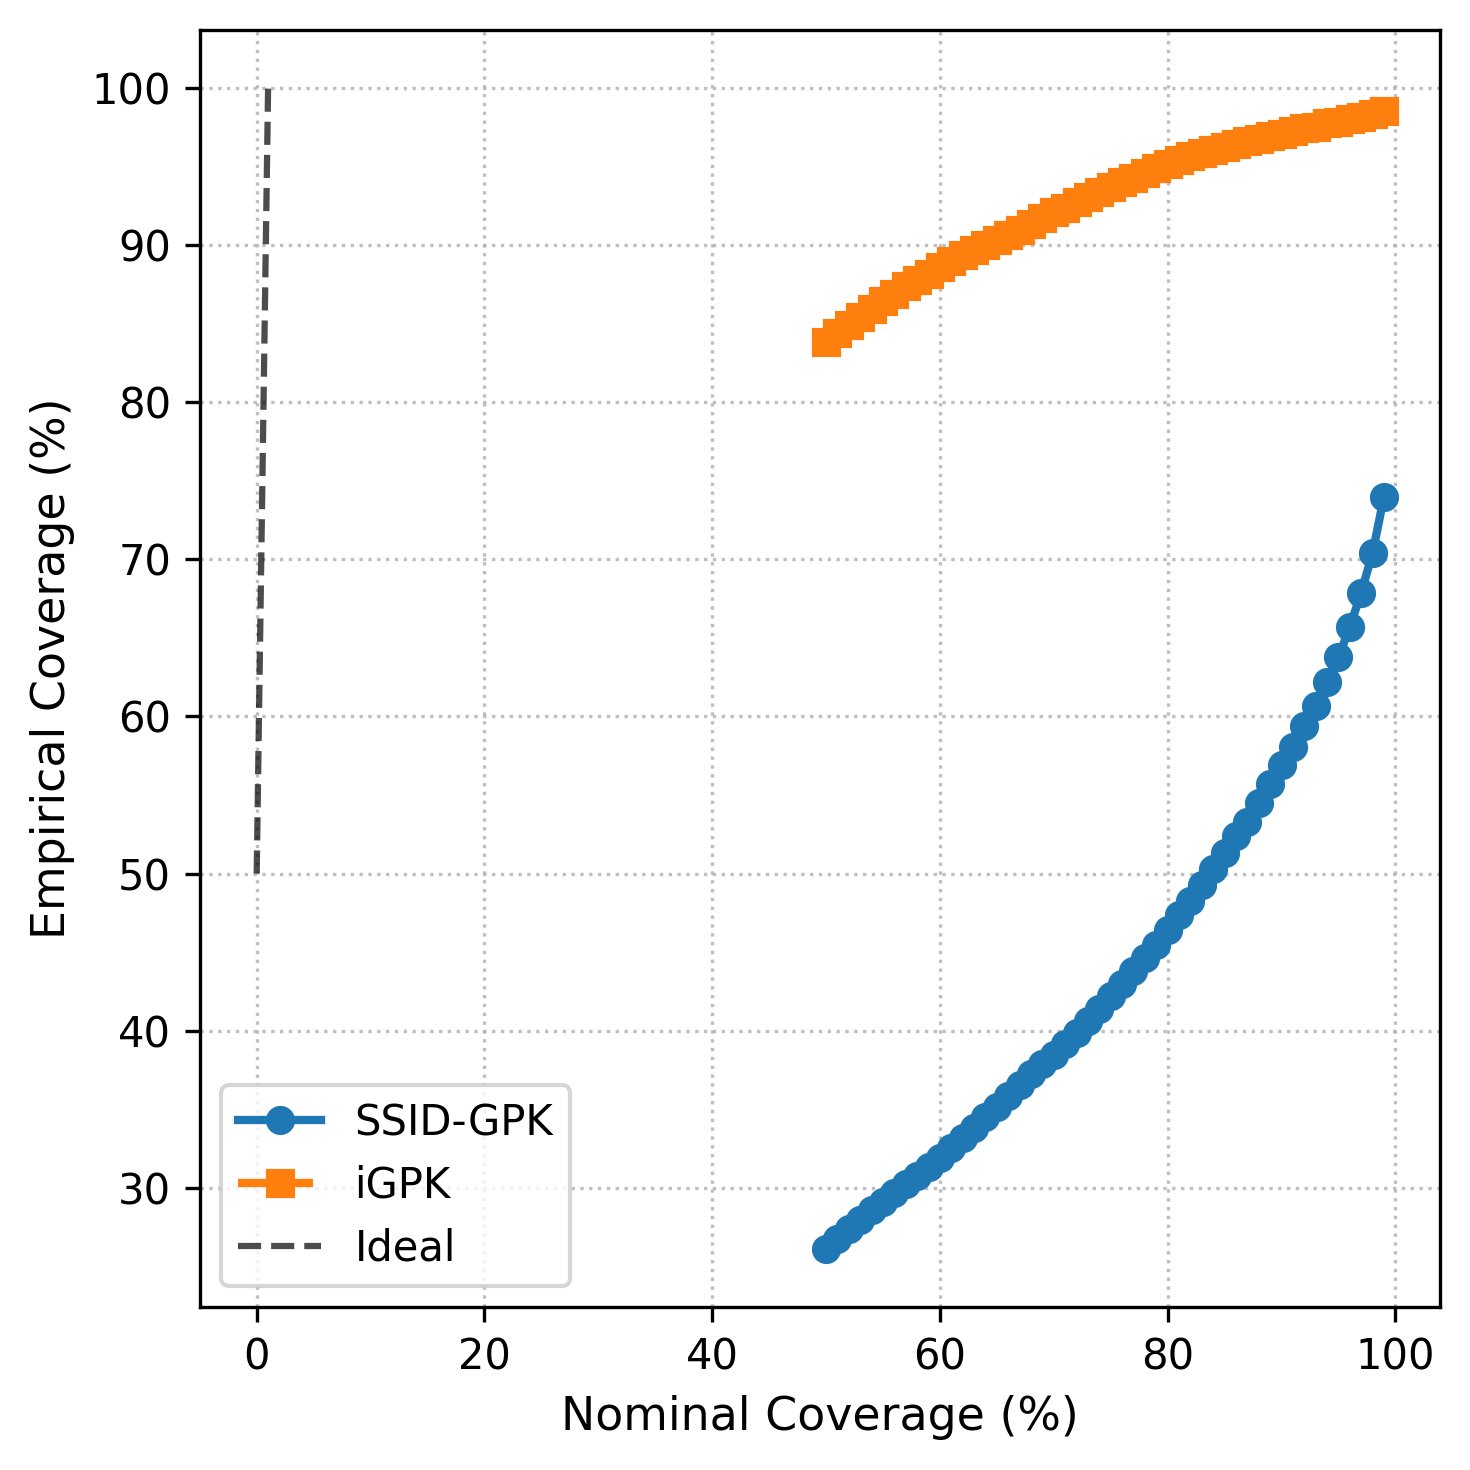
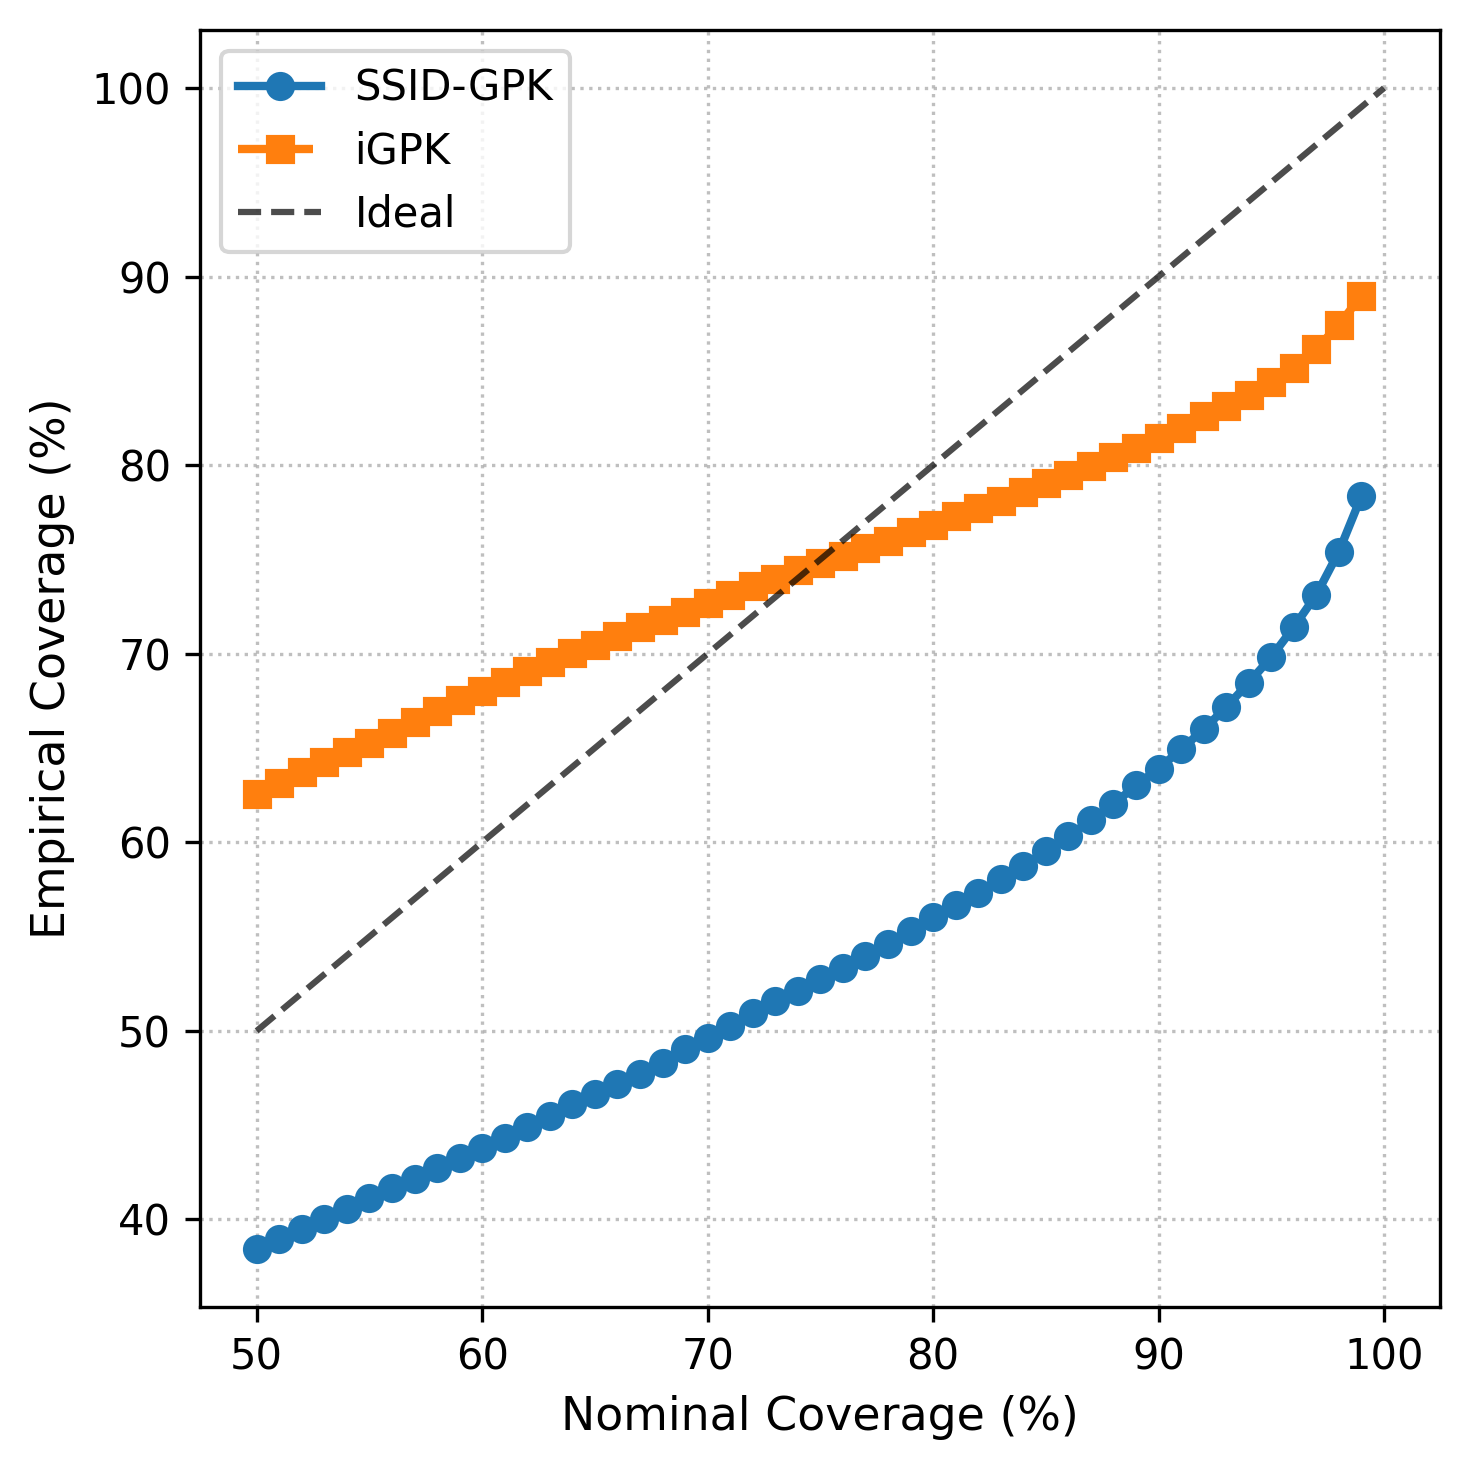
l4dc results done

diff --git a/scalarNL_script.py b/scalarNL_script.py
@@ -246,7 +246,7 @@ def compare_coverage_curves(
     ) if torch.is_tensor(emp_state2) else emp_state2
 
     # Plot
-    plt.figure(figsize=(5, 5))
+    plt.figure(figsize=(5, 4.5))
     plt.plot(alphas1 * 100, emp_state1
              * 100, 'o-', label="SSID-GPK", lw=2)
     plt.plot(alphas2 * 100, emp_state2
@@ -527,6 +527,7 @@ def run_models_for_noise(
         # GPKoopman.  We reuse the same plotting logic as the ACC26 script.
         # Note: these calls may be unused in the Scalar NL workflow but are
         # included for completeness if this helper is reused on other systems.
+        y_labels = ['P(t)', 'Q(t)']
         for (which, idx, split, sim_offset, suffix) in [
             ("best-train", idx_trainMIN, "train", 0,         "Best_Train"),
             ("best-test",  idx_testMIN,  "test",  nTrain,    "Best_Test"),
@@ -536,8 +537,8 @@ def run_models_for_noise(
                 time=time_arr, models=models, SimData=SimData, idx=idx, N=(
                     SimData.shape[2]-1),
                 system_name=system_name, title_suffix=suffix, split=split, sim_offset=sim_offset,
-                compare_to="SimData_clean", SimData_clean=SimData_clean, sigma=1.0, skip_title=True
-            )
+                compare_to="SimData_clean", SimData_clean=SimData_clean, sigma=1.0, skip_title=True,
+                y_labels=y_labels)
             _save(fig, outdir, f"{tag}_timeseries_{which}")
 
             models_nocv = [
@@ -554,8 +555,8 @@ def run_models_for_noise(
                 time=time_arr, models=models_nocv, SimData=SimData, idx=idx, N=(
                     SimData.shape[2]-1),
                 system_name=system_name, title_suffix=suffix, split=split, sim_offset=sim_offset,
-                compare_to="SimData_clean", SimData_clean=SimData_clean, sigma=1.0, skip_title=True
-            )
+                compare_to="SimData_clean", SimData_clean=SimData_clean, sigma=1.0, skip_title=True,
+                y_labels=y_labels)
             _save(fig, outdir, f"{tag}_timeseries_NoCV_{which}")
 
             models_iGPK = [
@@ -565,8 +566,8 @@ def run_models_for_noise(
                 time=time_arr, models=models_iGPK, SimData=SimData, idx=idx, N=(
                     SimData.shape[2]-1),
                 system_name=system_name, title_suffix=suffix, split=split, sim_offset=sim_offset,
-                compare_to="SimData_clean", SimData_clean=SimData_clean, sigma=1.0, skip_title=True
-            )
+                compare_to="SimData_clean", SimData_clean=SimData_clean, sigma=1.0, skip_title=True,
+                y_labels=y_labels)
             _save(fig, outdir, f"{tag}_timeseries_igpkONLY_{which}")
 
             models_iGPK_noCV = [
@@ -576,8 +577,8 @@ def run_models_for_noise(
                 time=time_arr, models=models_iGPK_noCV, SimData=SimData, idx=idx, N=(
                     SimData.shape[2]-1),
                 system_name=system_name, title_suffix=suffix, split=split, sim_offset=sim_offset,
-                compare_to="SimData_clean", SimData_clean=SimData_clean, sigma=1.0, skip_title=True
-            )
+                compare_to="SimData_clean", SimData_clean=SimData_clean, sigma=1.0, skip_title=True,
+                y_labels=y_labels)
             _save(fig, outdir, f"{tag}_timeseries_igpk_noCV_{which}")
 
         train_int_coverage = compute_interval_coverage(
@@ -623,8 +624,9 @@ def run_models_for_noise(
             a_te_s, emp_te_s, title="SSID-GPK — Test Calibration",  label="Empirical")
         _save(fig, outdir, f"{tag}_Calibration_Curve-Test-SSID_GPK")
 
+        save_path = os.path.join(outdir, f"{tag}_CalibCurve_Compare.png")
         compare_coverage_curves(a_te_s, emp_te_s, a_te_i, emp_te_i,
-                                system_name="Lorenz", split="test", save_path=outdir)
+                                system_name="Lorenz", split="test", save_path=save_path)
 
         print("SSID-GPK miscalibration area (train/test):",
               miscalibration_area(a_tr_s, emp_tr_s).item(),

diff --git a/GPKoopman/utilities.py b/GPKoopman/utilities.py
@@ -24,7 +24,8 @@ def compare_model_predictions(
     SimData_clean=None,               # required if compare_to="SimData_clean"
     sigma=1.0,                        # number of std-devs for bands (iGPK)
     colors=None,                      # optional color map per model
-    skip_title=False
+    skip_title=False,
+    y_labels=None
 ):
     """
     Compare time-series predictions from multiple models to ground truth, with optional uncertainty bands.
@@ -101,7 +102,7 @@ def compare_model_predictions(
     # Setup figure/axes
     fig_height = max(5, 1.8 * n_states)
     fig, axes = plt.subplots(
-        n_states, 1, figsize=(6, fig_height), sharex=True)
+        n_states, 1, figsize=(5, fig_height), sharex=True)
     if n_states == 1:
         axes = [axes]
 
@@ -120,12 +121,12 @@ def compare_model_predictions(
         n_markers = 20
         marker_idx = np.linspace(0, N - 1, n_markers, dtype=int)
 
-        ax.plot(time, gt, linestyle="--", linewidth=1.3, color="black", alpha=0.75,
-                label=gt_label)
+        # ax.plot(time, gt, linestyle="--", linewidth=1.3, color="black", alpha=0.75,
+        #         label=gt_label)
 
         # overlay sparse markers for clarity
-        ax.plot(time[marker_idx], gt[marker_idx], marker='o', linestyle='None',
-                color="black", markersize=4, alpha=0.8, label=None)
+        ax.plot(time[marker_idx], gt[marker_idx], marker='o', linestyle='--',
+                linewidth=1.3, color="black", markersize=4, alpha=0.8, label='Truth')
 
         # Overlay all models
         for k, model in enumerate(models):
@@ -148,7 +149,10 @@ def compare_model_predictions(
                 upper = (Xhat + sigma * std_s).cpu().numpy()
                 ax.fill_between(time, lower, upper, alpha=0.16, color=col)
 
-        ax.set_ylabel(f"X{s+1}")
+        if y_labels is None:
+            ax.set_ylabel(f"X{s+1}")
+        else:
+            ax.set_ylabel(f'${y_labels[s]}$')
         ax.grid(True, linestyle=":", linewidth=0.7)
 
     axes[-1].set_xlabel("Time [s]")

diff --git a/sweep_noise_ipp.py b/sweep_noise_ipp.py
@@ -11,7 +11,7 @@ NOISE_TYPES = [
     "gaussian", "uniform"
 ]
 
-INTENSITIES = [0., 0.05, 0.1]  # normalized scale
+INTENSITIES = [0., 0.05, 0.1, 0.2]  # normalized scale
 SEEDS = [100]                      # repeatability / variability
 
 OUTDIR = "Figures_L4DC_" + SYSTEM_NAME